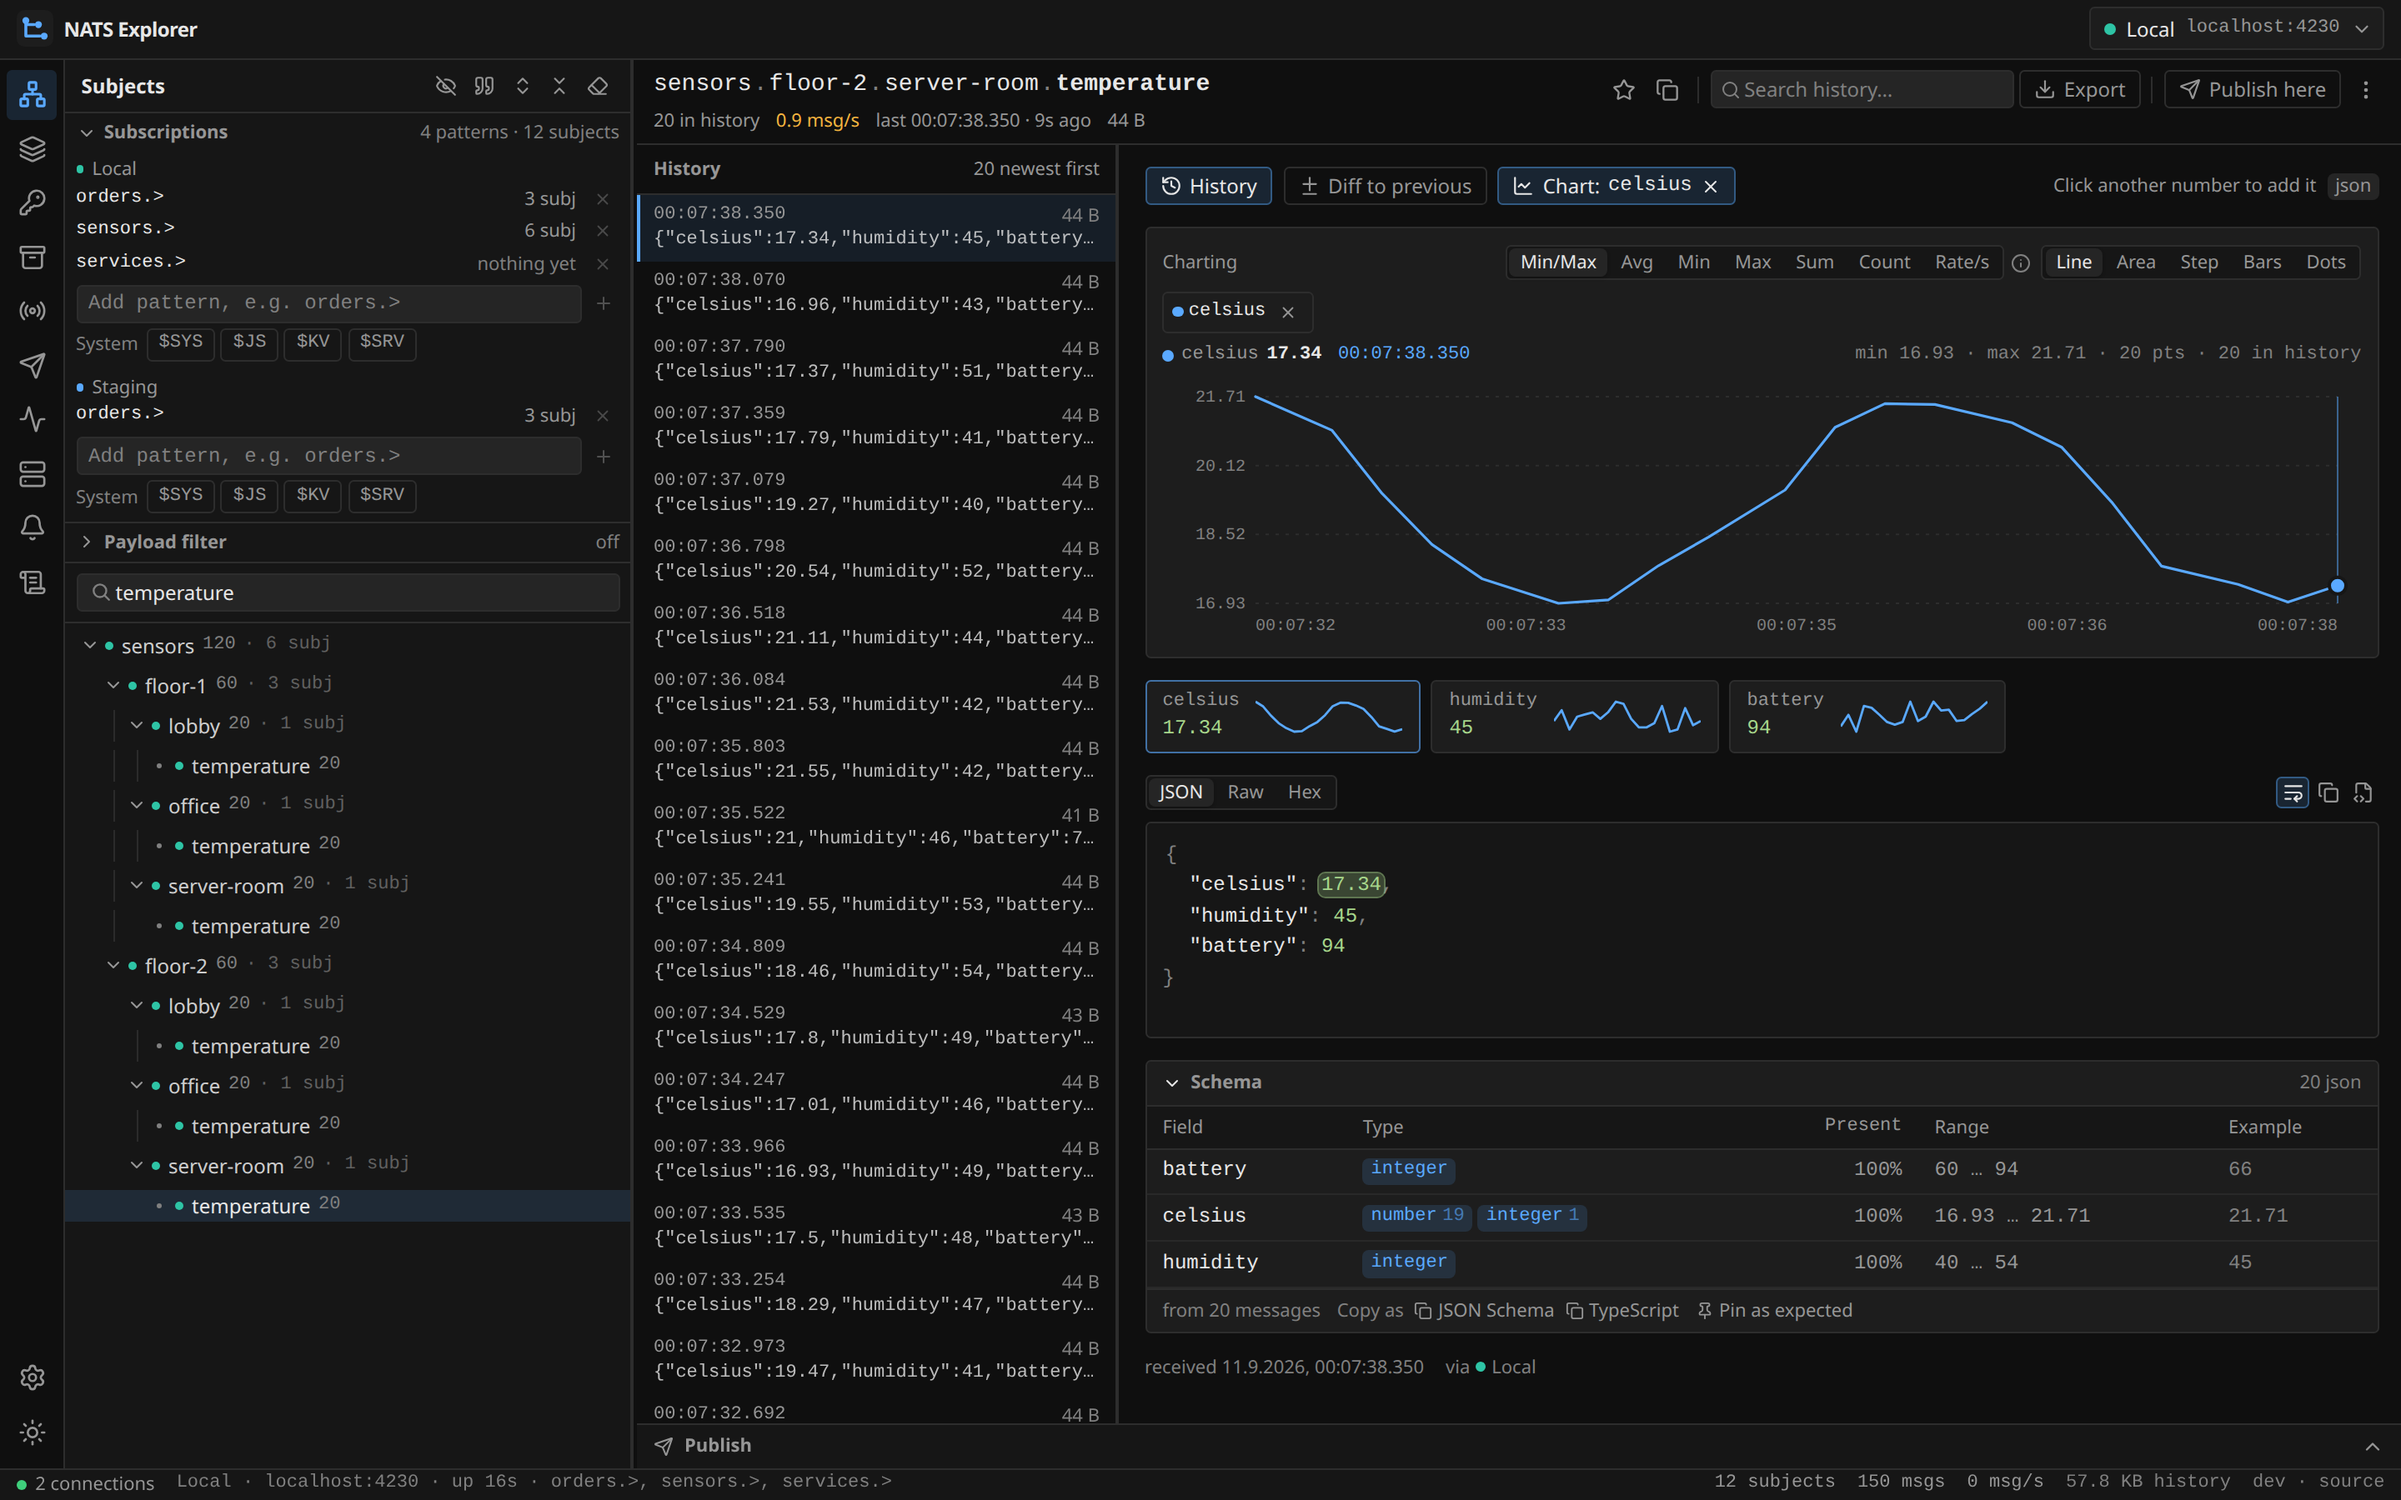
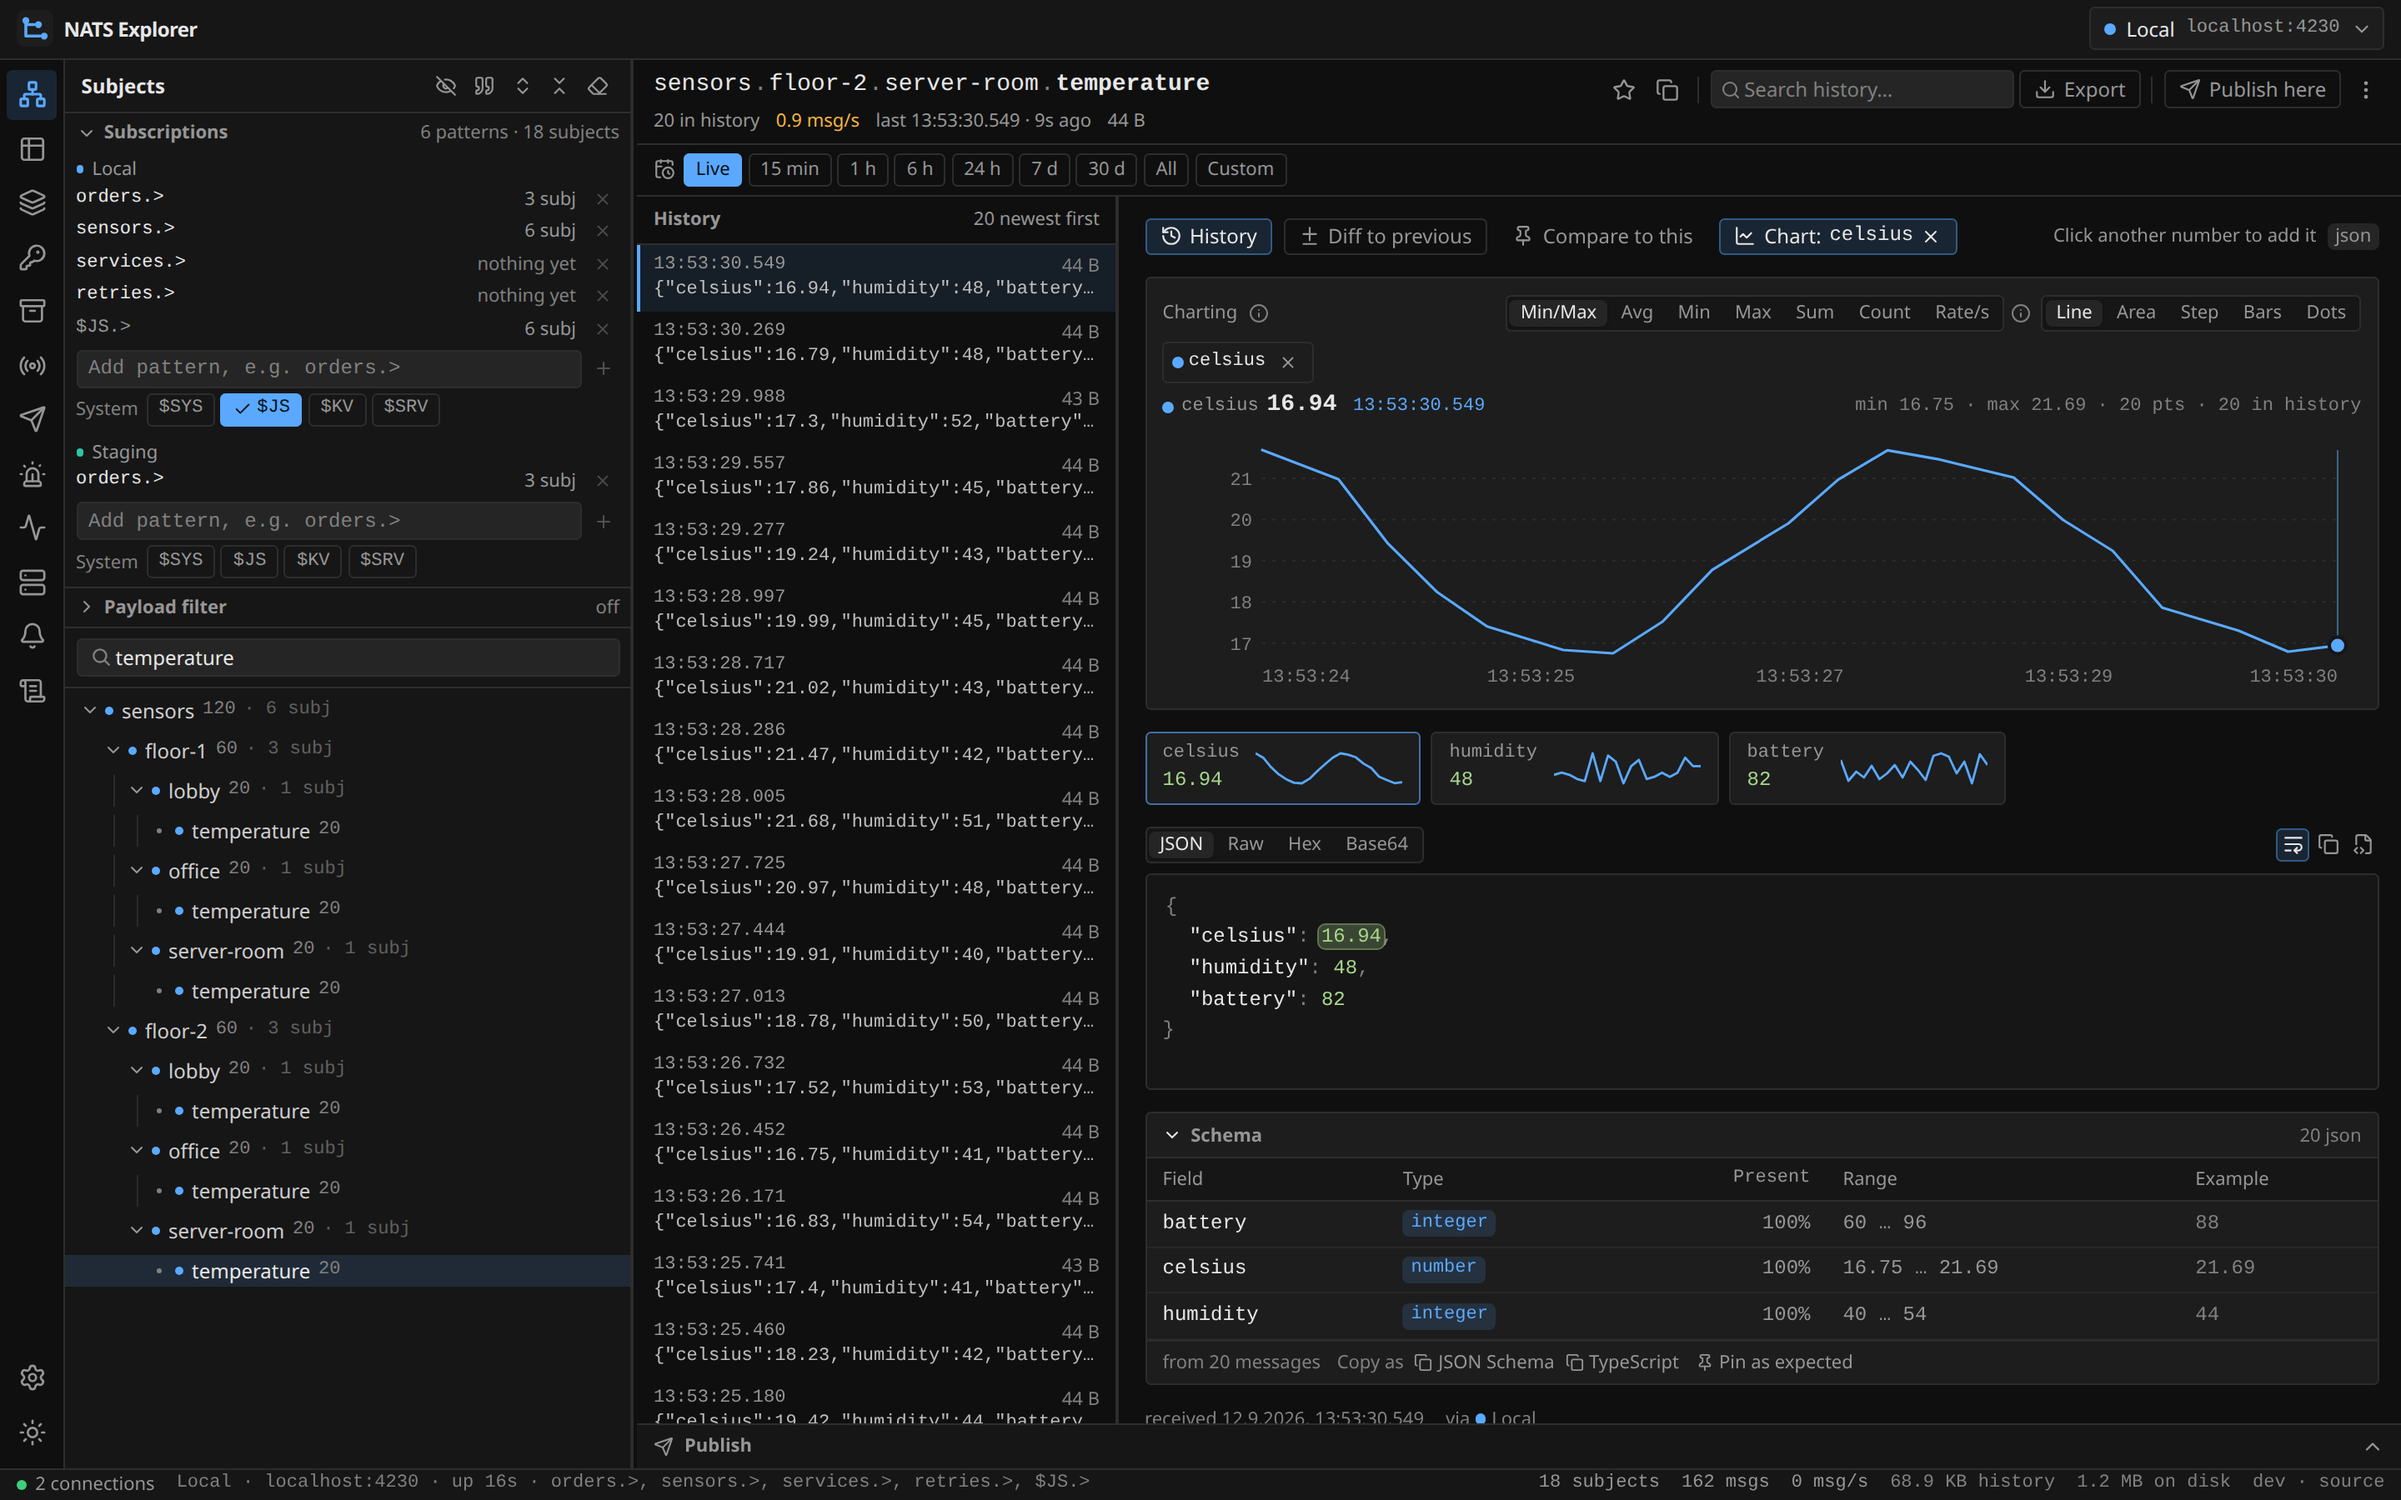
docs: retake the screenshots, with the two new modules in them
`bun run --filter e2e screenshots` now takes nine instead of seven: State
with the sensors of both floors, their fields in columns and their age,
and Events with the advisories of a consumer that naks, a stream created
and deleted and two API calls that failed -- made by doing the thing,
because the server is the only one who publishes them.

Two fixes to the script while it was open. The second connection is
created first, because the active connection is whichever the backend
lists first and both new views read that one; and the shots pick "Local"
in the switcher before they are taken, so a reordering cannot quietly
empty them again.

The old seven are current as well: the schema panel now reads `number`
where it used to read `number 19 · integer 1`, the payload viewer has its
Base64 tab, and the chart shows round axis steps and the value in the
size it is read at.

diff --git a/docs/features.md b/docs/features.md
@@ -30,6 +30,8 @@ nav_order: 3
 
 ## State
 
+<img src="{{ '/screenshots/state-dark.png' | relative_url }}" alt="The State module: the newest message of every sensor with its fields in columns and its age" loading="lazy">
+
 A message list answers "what was sent". In front of a running plant the question is "what is it": the newest value of every sensor, setpoint and counter at once. The State module is that table -- one row per subject under a root, the scalar fields of its newest message as columns (the ones most rows carry, commonest first), and its age beside it.
 
 The age is why the table exists: a value is only as good as the moment it arrived, so a minute is marked and ten minutes are marked louder, and the Age header sorts the oldest first -- what is dead in a plant of two thousand subjects is then the first row rather than a hunt through a tree. Where the payloads carry the producer's own clock, a **Clock** column shows the gap to their arrival, and a negative one is marked: a clock running ahead is a problem, not a fast network. Copy takes what is on screen as CSV.
@@ -128,6 +130,8 @@ Six shapes, because what an export is for decides its shape:
 {% raw %}The replay script quotes for the shell, carries the headers, sends binary payloads through base64 and stdin, and escapes `{{` as `{{"{{"}}` -- `nats pub` expands Go templates in the body, so a payload holding `{{Count}}` would otherwise arrive as `1`.{% endraw %} The loaded messages can also be replayed straight through the publish API, with a pause and an optional subject rewrite.
 
 ## Events
+
+<img src="{{ '/screenshots/events-dark.png' | relative_url }}" alt="The Events module: JetStream advisories read as a log, with severities" loading="lazy">
 
 JetStream publishes an advisory for everything that matters -- a consumer that gave up after its last attempt, a message terminated, a stream that lost quorum, an API call that was refused -- and the system account does the same for clients and servers. They are ordinary messages on `$JS.EVENT.>` and `$SYS.>`, which is why they used to read as JSON in the subject tree; the Events module reads them as a log instead:
 
